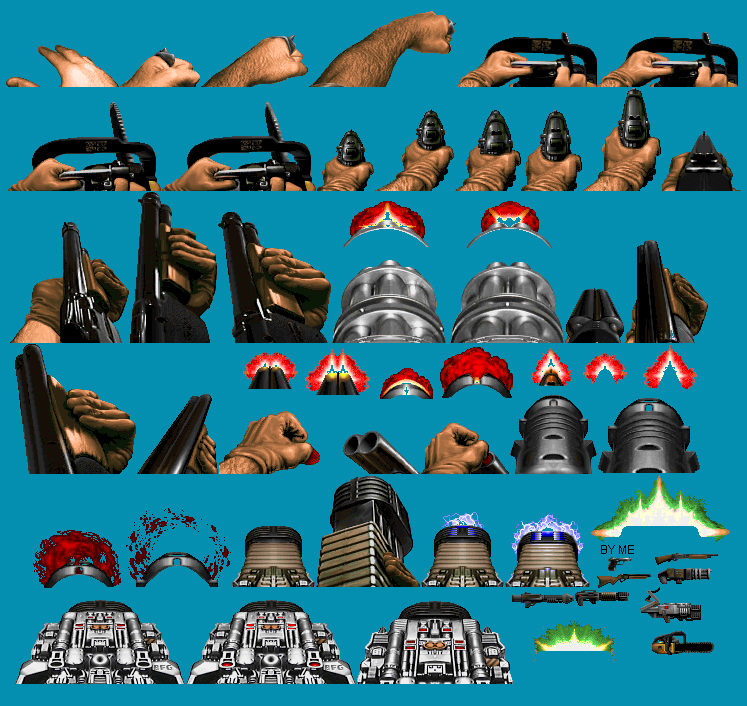
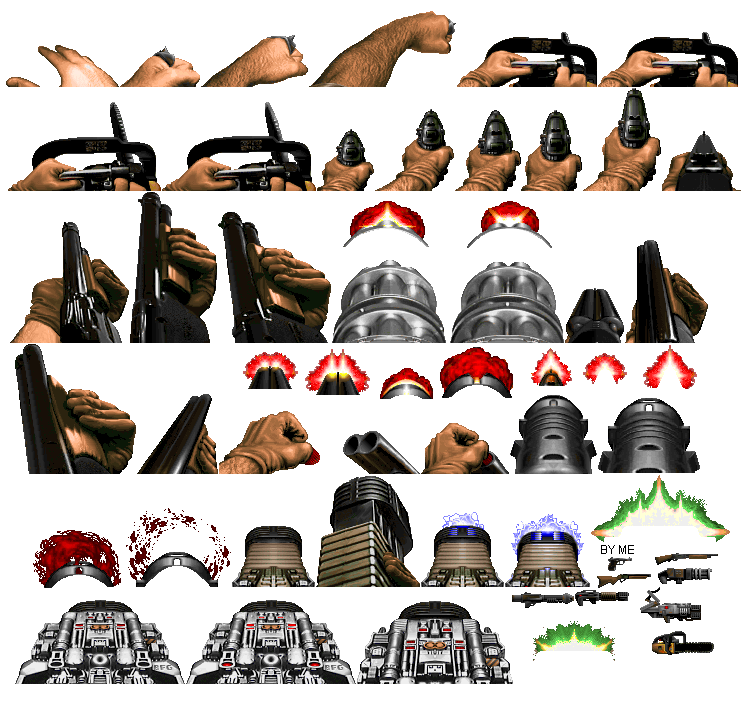
Added weapon sprite

diff --git a/Wolfenfels/Renderer.cpp b/Wolfenfels/Renderer.cpp
@@ -3,14 +3,21 @@
 #include <png.hpp>
 
 
-Renderer::Renderer(Stage & stage)
+Renderer::Renderer(Stage & stage, Player & player)
 {
 	unsigned char* wall_texture_buffer = new unsigned char[wall_texture_width * wall_texture_height * 4];
-	PNGtoTexture("wall.png", wall_texture_height, wall_texture_width, wall_texture_buffer);
+	PNGtoTexture("wall.png", wall_texture_width, wall_texture_height, wall_texture_buffer);
 	wall_textureID = VAllocWallTexture(wall_texture_buffer);
 	delete[] wall_texture_buffer;
 	bg_vao = VAllocBG(stage);
 	stage_walls_vao = VAllocStageWalls(stage);
+
+	unsigned char* player_texture_buffer = new unsigned char[player_texture_width * player_texture_height * 4];
+	PNGtoTexture("weapons.png", player_texture_width, player_texture_height, player_texture_buffer);
+	player_textureID = VAllocPlayerTexture(player_texture_buffer);
+	delete[] player_texture_buffer;
+	player_vao = VAllocPlayersprite(player);
+
 }
 
 
@@ -38,12 +45,6 @@ GLuint Renderer::VAllocStageWalls(Stage & stage)
 	glGenBuffers(1, &vbo_pos); // Generate empty buffer
 	glBindBuffer(GL_ARRAY_BUFFER, vbo_pos); // Bind as current buffer in OpenGL's state machine
 	glBufferData(GL_ARRAY_BUFFER, stage.n_vertcoords * sizeof(float), stage.vertcoords, GL_STATIC_DRAW);
-
-	/*
-	glGenBuffers(1, &vbo_col); // Generate empty buffer
-	glBindBuffer(GL_ARRAY_BUFFER, vbo_col); // Bind as current buffer in OpenGL's state machine
-	glBufferData(GL_ARRAY_BUFFER, n_vertcoords * sizeof(float), colors, GL_STATIC_DRAW);
-	*/
 
 	GLuint vbo_uv = 0;
 	glGenBuffers(1, &vbo_uv); // Generate empty buffer
@@ -119,8 +120,57 @@ void Renderer::RenderBG(Stage & stage, GLuint shader, GLuint vao)
 	glDrawArrays(GL_QUADS, 0, 8);
 }
 
-void Renderer::RenderAll(Stage & stage, GLuint wallshader, GLuint bgshader)
+void Renderer::RenderAll(Stage & stage, Player & player, GLuint* shader)
 {
-	RenderBG(stage, bgshader, bg_vao);
-	RenderStageWalls(stage, wallshader, stage_walls_vao);
+	RenderBG(stage, shader[0], bg_vao);
+	RenderStageWalls(stage, shader[1], stage_walls_vao);
+	RenderPlayer(player, shader[2], player_vao);
+}
+
+GLuint Renderer::VAllocPlayersprite(Player & player)
+{
+	GLuint vbo_pos = 0;
+	glGenBuffers(1, &vbo_pos); // Generate empty buffer
+	glBindBuffer(GL_ARRAY_BUFFER, vbo_pos); // Bind as current buffer in OpenGL's state machine
+	glBufferData(GL_ARRAY_BUFFER, 12 * sizeof(float), player.spritecoords, GL_STATIC_DRAW);
+
+	GLuint vbo_col = 0;
+	glGenBuffers(1, &vbo_col); // Generate empty buffer
+	glBindBuffer(GL_ARRAY_BUFFER, vbo_col); // Bind as current buffer in OpenGL's state machine
+	glBufferData(GL_ARRAY_BUFFER, 8 * sizeof(float), player.sprite_UV_coords, GL_STATIC_DRAW);
+
+	GLuint vao = 0;
+	glGenVertexArrays(1, &vao);
+	glBindVertexArray(vao);
+	glEnableVertexAttribArray(0);
+	glBindBuffer(GL_ARRAY_BUFFER, vbo_pos);
+	glVertexAttribPointer(0, 3, GL_FLOAT, GL_FALSE, 0, NULL);
+	glEnableVertexAttribArray(1);
+	glBindBuffer(GL_ARRAY_BUFFER, vbo_col);
+	glVertexAttribPointer(1, 2, GL_FLOAT, GL_FALSE, 0, NULL);
+
+	return vao;
+}
+
+GLuint Renderer::VAllocPlayerTexture(unsigned char * texture_buffer)
+{
+	GLuint textureID;
+	glGenTextures(1, &textureID);
+
+	glBindTexture(GL_TEXTURE_2D, textureID);
+	glTexImage2D(GL_TEXTURE_2D, 0, GL_RGBA, player_texture_width, player_texture_height, 0, GL_RGBA, GL_UNSIGNED_BYTE, texture_buffer);
+
+	glTexParameteri(GL_TEXTURE_2D, GL_TEXTURE_MAG_FILTER, GL_NEAREST);
+	glTexParameteri(GL_TEXTURE_2D, GL_TEXTURE_MIN_FILTER, GL_NEAREST);
+	//glGenerateMipmap(GL_TEXTURE_2D);
+
+	return textureID;
+}
+
+void Renderer::RenderPlayer(Player & player, GLuint shader, GLuint vao)
+{
+	glUseProgram(shader);
+	glBindTexture(GL_TEXTURE_2D, player_textureID);
+	glBindVertexArray(vao);
+	glDrawArrays(GL_QUADS, 0, 4);
 }

diff --git a/Wolfenfels/Engine.cpp b/Wolfenfels/Engine.cpp
@@ -55,6 +55,8 @@ bool Engine::Init()
 	// tell GL to only draw onto a pixel if the shape is closer to the viewer
 	glEnable(GL_DEPTH_TEST); // enable depth-testing
 	glEnable(GL_CULL_FACE);
+	glEnable(GL_BLEND);
+	glBlendFunc(GL_SRC_ALPHA, GL_ONE_MINUS_SRC_ALPHA);
 	glDepthFunc(GL_LESS); // depth-testing interprets a smaller value as "closer"
 
 	glfwWindowHint(GLFW_CONTEXT_VERSION_MAJOR, 4);
@@ -67,7 +69,7 @@ bool Engine::Init()
 
 void Engine::GameLoop()
 {
-	Renderer renderer(stage);
+	Renderer renderer(stage, player);
 	// Loop until the user closes the window
 	double elapsed = 0;
 	uint32_t framecount = 0;
@@ -81,11 +83,11 @@ void Engine::GameLoop()
 		glClearColor(0.1f, 0.1f, 0.1f, 1.0f);
 		glClear(GL_COLOR_BUFFER_BIT | GL_DEPTH_BUFFER_BIT);
 		
-		GLuint MatrixID = glGetUniformLocation(texshader_program, "MVP");
-
-		//ComputeView();
+		glUseProgram(shaders[1]);
+		GLuint MatrixID = glGetUniformLocation(shaders[1], "MVP");
 		glUniformMatrix4fv(MatrixID, 1, GL_FALSE, &player.mvp[0][0]);
-		renderer.RenderAll(stage, texshader_program, bgshader_program);
+
+		renderer.RenderAll(stage, player, (GLuint*)&shaders[0]);
 
 		// put the stuff we've been drawing onto the display
 		glfwSwapBuffers(window);
@@ -139,7 +141,6 @@ void Engine::CreateShaders()
 		"layout(location = 0) in vec3 pos;"
 		"layout(location = 1) in vec2 UV_in;"
 		"layout(location = 2) in vec3 color_in;"
-		"uniform mat4 MVP;"
 		"out VertexData{"
 		"  vec2 UV;"
 		"  vec3 color;"
@@ -189,20 +190,21 @@ void Engine::CreateShaders()
 	glShaderSource(t_fs, 1, &texture_fshader, NULL);
 	glCompileShader(t_fs);
 
-	/*
-	shader_program = glCreateProgram();
-	glAttachShader(shader_program, fs);
-	glAttachShader(shader_program, vs);
-	glLinkProgram(shader_program);
-	*/
-
-	bgshader_program = glCreateProgram();
+	GLuint bgshader_program = glCreateProgram();
 	glAttachShader(bgshader_program, c_fs);
 	glAttachShader(bgshader_program, s_vs);
 	glLinkProgram(bgshader_program);
+	shaders.push_back(bgshader_program);
 
-	texshader_program = glCreateProgram();
+	GLuint texshader_program = glCreateProgram();
 	glAttachShader(texshader_program, t_fs);
 	glAttachShader(texshader_program, p_vs);
 	glLinkProgram(texshader_program);
+	shaders.push_back(texshader_program);
+
+	GLuint player_shader = glCreateProgram();
+	glAttachShader(player_shader, t_fs);
+	glAttachShader(player_shader, s_vs);
+	glLinkProgram(player_shader);
+	shaders.push_back(player_shader);
 }

diff --git a/Wolfenfels/Renderer.h b/Wolfenfels/Renderer.h
@@ -2,11 +2,12 @@
 
 #include <GL/glew.h>
 #include "Stage.h"
+#include "Player.h"
 
 class Renderer
 {
 public:
-	Renderer(Stage & stage);
+	Renderer(Stage & stage, Player & player);
 	~Renderer();
 
 	void PNGtoTexture(string filename, int width, int height, unsigned char* buffer);
@@ -17,14 +18,24 @@ public:
 
 	void RenderStageWalls(Stage & stage, GLuint shader, GLuint vao);
 	void RenderBG(Stage & stage, GLuint shader, GLuint vao);
-	void RenderAll(Stage & stage, GLuint wallshader, GLuint bgshader);
+	void RenderAll(Stage & stage, Player & player, GLuint* shader);
 
+	GLuint VAllocPlayersprite(Player & player);
+	GLuint VAllocPlayerTexture(unsigned char * texture_buffer);
+
+	void RenderPlayer(Player & player, GLuint shader, GLuint vao);
+	
+	GLuint wall_textureID;
 	GLsizei wall_texture_width = 512;
 	GLsizei wall_texture_height = 512;
-	//unsigned char* wall_texture = new unsigned char[wall_texture_width * wall_texture_height * 4];
 
-	GLuint wall_textureID;
+	GLuint player_textureID;
+	GLsizei player_texture_width = 747;
+	GLsizei player_texture_height = 706;
+
 	GLuint bg_vao;
 	GLuint stage_walls_vao;
+
+	GLuint player_vao;
 };
 

diff --git a/Wolfenfels/Player.cpp b/Wolfenfels/Player.cpp
@@ -63,11 +63,11 @@ void Player::SetSpriteCoords()
 	};
 	std::copy(std::begin(lspritecoords), std::end(lspritecoords), spritecoords);
 
-	float lsprite_texture_coords[] = {
-		-0.2f, -1.0f, 0.0f,
-		0.2f, -1.0f, 0.0f,
-		0.2f, -0.2f, 0.0f,
-		-0.2f, -0.2f, 0.0f
+	float lsprite_UV_coords[] = {
+		0.424f, 0.73f,
+		0.501f, 0.73f,
+		0.501f, 0.817f,
+		0.424f, 0.817f
 	};
-	std::copy(std::begin(lsprite_texture_coords), std::end(lsprite_texture_coords), sprite_texture_coords);
+	std::copy(std::begin(lsprite_UV_coords), std::end(lsprite_UV_coords), sprite_UV_coords);
 }

diff --git a/Wolfenfels/Player.h b/Wolfenfels/Player.h
@@ -24,8 +24,8 @@ public:
 
 	void SetSpriteCoords();
 
-	float* spritecoords;
-	float* sprite_texture_coords;
+	float spritecoords[12];
+	float sprite_UV_coords[8];
 
 	glm::vec3 pos{ 0.0f, -3.0f, 0.5f };
 	float move_speed = 0.02f;

diff --git a/Wolfenfels/Engine.h b/Wolfenfels/Engine.h
@@ -32,8 +32,6 @@ public:
 	GLFWwindow* window;
 	int keystates[8];
 
-	GLuint shader_program;
-	GLuint bgshader_program;
-	GLuint texshader_program;
+	vector<GLuint> shaders;
 };
 
